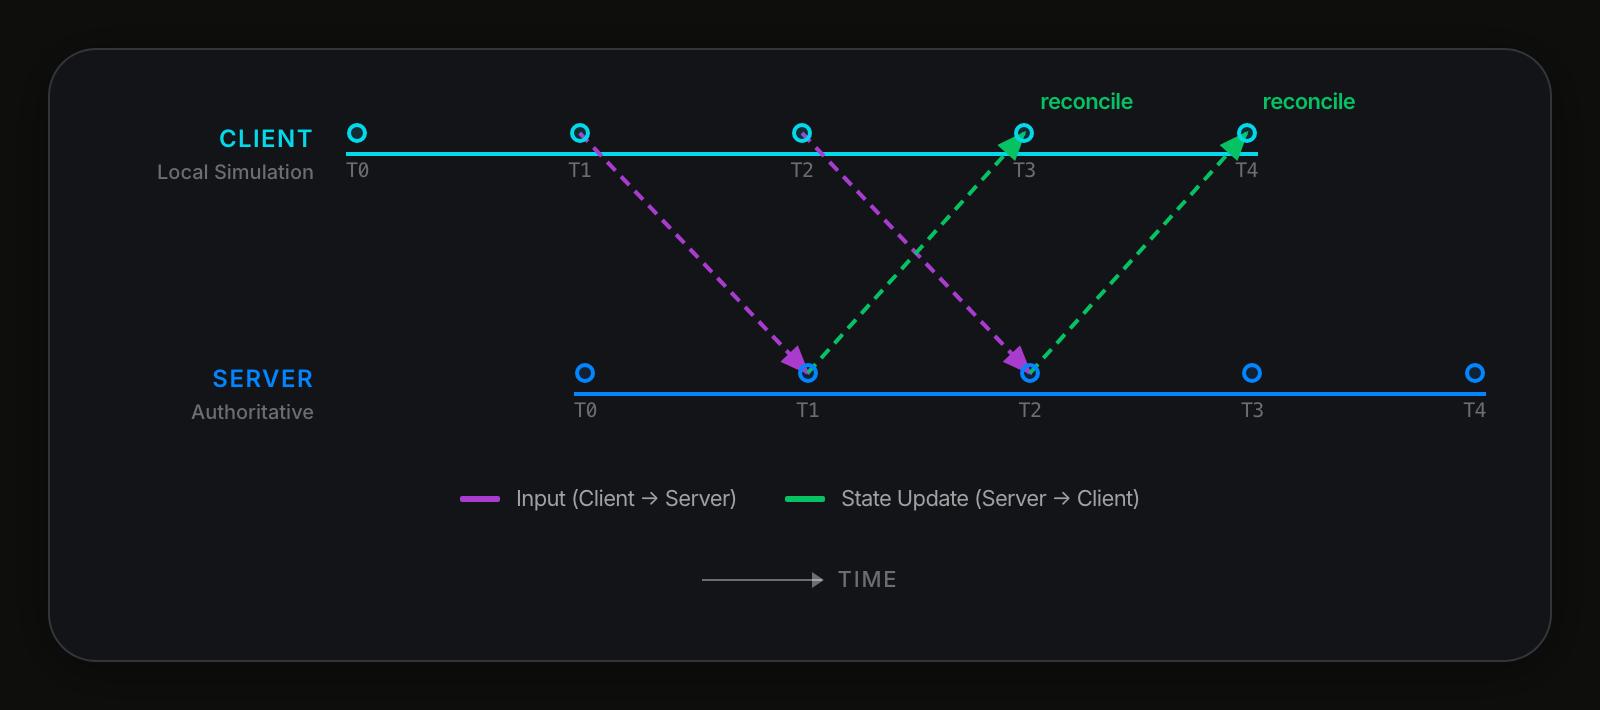
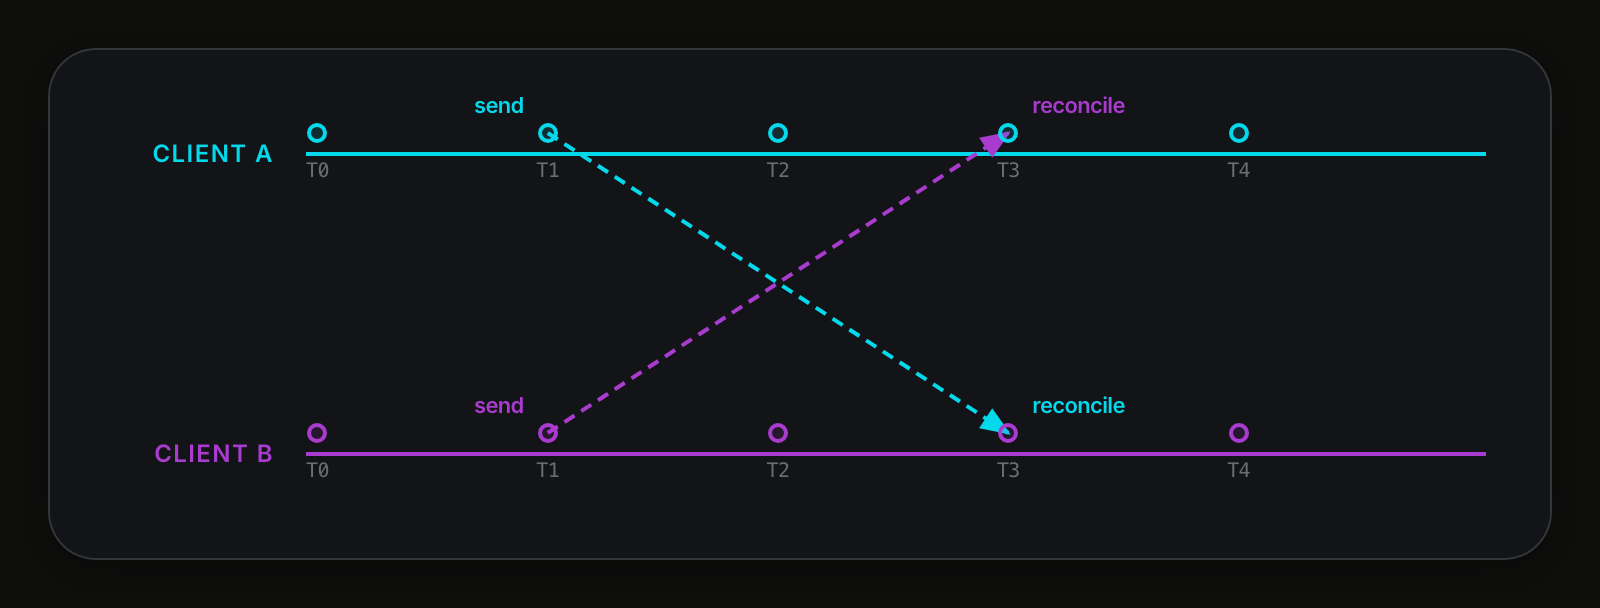
rebuild: games slide is two symmetric peers, no legends

diff --git a/diagrams/pages/game-timelines.html b/diagrams/pages/game-timelines.html
@@ -24,7 +24,7 @@
       position: relative;
       display: flex;
       flex-direction: column;
-      gap: 80px;
+      gap: 110px;
     }
 
     .timeline-row {
@@ -38,19 +38,10 @@
       font-weight: var(--font-weight-semibold);
       text-transform: uppercase;
       letter-spacing: 0.06em;
-      width: 100px;
+      width: 80px;
       flex-shrink: 0;
       text-align: right;
       line-height: 1.3;
-    }
-    .timeline-label .sublabel {
-      display: block;
-      font-size: 10px;
-      font-weight: var(--font-weight-medium);
-      color: var(--text-muted);
-      text-transform: none;
-      letter-spacing: 0;
-      margin-top: 2px;
     }
 
     .timeline-track {
@@ -61,7 +52,7 @@
       height: 40px;
     }
 
-    /* The horizontal line */
+    /* The horizontal line — both peers run the full width */
     .timeline-line {
       position: absolute;
       top: 50%;
@@ -70,21 +61,16 @@
       height: 2px;
       transform: translateY(-50%);
     }
-    .timeline-line.client { background: var(--accent-cyan); right: 20%; }
-    .timeline-line.server { background: var(--accent-blue); left: 20%; }
+    .timeline-line.peer-a { background: var(--accent-cyan); }
+    .timeline-line.peer-b { background: var(--accent-purple); }
 
-    /* Tick marks */
+    /* Tick marks — the right-hand fifth is left clear for the arrow labels */
     .ticks {
       display: flex;
       justify-content: space-between;
       width: 80%;
       position: relative;
       z-index: 1;
-    }
-
-    /* Server ticks shifted right by 1 tick spacing */
-    #server-track .ticks {
-      margin-left: 20%;
     }
 
     .tick {
@@ -100,8 +86,8 @@
       border-radius: 50%;
       border: 2px solid;
     }
-    .tick-dot.accent-cyan  { border-color: var(--accent-cyan);  background: var(--accent-cyan-bg); }
-    .tick-dot.accent-blue  { border-color: var(--accent-blue);  background: var(--accent-blue-bg); }
+    .tick-dot.accent-cyan   { border-color: var(--accent-cyan);   background: var(--accent-cyan-bg); }
+    .tick-dot.accent-purple { border-color: var(--accent-purple); background: var(--accent-purple-bg); }
 
     .tick-label {
       font-size: 10px;
@@ -120,58 +106,6 @@
       overflow: visible;
       pointer-events: none;
     }
-
-    /* Time axis */
-    .time-axis {
-      display: flex;
-      align-items: center;
-      justify-content: center;
-      gap: var(--space-sm);
-      margin-top: var(--space-lg);
-      color: var(--text-muted);
-      font-size: 11px;
-      font-weight: var(--font-weight-medium);
-      text-transform: uppercase;
-      letter-spacing: 0.08em;
-    }
-    .time-axis-line {
-      width: 60px;
-      height: 1px;
-      background: var(--text-muted);
-      position: relative;
-    }
-    .time-axis-line::after {
-      content: '';
-      position: absolute;
-      right: -1px;
-      top: 50%;
-      transform: translateY(-50%);
-      border-top: 4px solid transparent;
-      border-bottom: 4px solid transparent;
-      border-left: 6px solid var(--text-muted);
-    }
-
-    /* Legend */
-    .diagram-legend {
-      display: flex;
-      gap: var(--space-lg);
-      margin-top: var(--space-lg);
-      justify-content: center;
-    }
-    .legend-entry {
-      display: flex;
-      align-items: center;
-      gap: var(--space-sm);
-      font-size: 11px;
-      color: var(--text-secondary);
-    }
-    .legend-swatch {
-      width: 20px;
-      height: 3px;
-      border-radius: 1px;
-    }
-    .legend-swatch.purple { background: var(--accent-purple); }
-    .legend-swatch.green  { background: var(--accent-green); }
   </style>
 </head>
 <body>
@@ -180,15 +114,12 @@
       <div class="card-body">
         <div class="timelines" id="timelines">
 
-          <!-- Client timeline (T0–T4) -->
-          <div class="timeline-row" id="client-row">
-            <div class="timeline-label" style="color: var(--accent-cyan);">
-              Client
-              <span class="sublabel">Local Simulation</span>
-            </div>
-            <div class="timeline-track" id="client-track">
-              <div class="timeline-line client"></div>
-              <div class="ticks" id="client-ticks">
+          <!-- Client A -->
+          <div class="timeline-row">
+            <div class="timeline-label" style="color: var(--accent-cyan);">Client A</div>
+            <div class="timeline-track">
+              <div class="timeline-line peer-a"></div>
+              <div class="ticks" id="a-ticks">
                 <div class="tick"><div class="tick-dot accent-cyan"></div><span class="tick-label">T0</span></div>
                 <div class="tick"><div class="tick-dot accent-cyan"></div><span class="tick-label">T1</span></div>
                 <div class="tick"><div class="tick-dot accent-cyan"></div><span class="tick-label">T2</span></div>
@@ -198,20 +129,17 @@
             </div>
           </div>
 
-          <!-- Server timeline (T0–T4, offset right to show lag) -->
-          <div class="timeline-row" id="server-row">
-            <div class="timeline-label" style="color: var(--accent-blue);">
-              Server
-              <span class="sublabel">Authoritative</span>
-            </div>
-            <div class="timeline-track" id="server-track">
-              <div class="timeline-line server"></div>
-              <div class="ticks" id="server-ticks">
-                <div class="tick"><div class="tick-dot accent-blue"></div><span class="tick-label">T0</span></div>
-                <div class="tick"><div class="tick-dot accent-blue"></div><span class="tick-label">T1</span></div>
-                <div class="tick"><div class="tick-dot accent-blue"></div><span class="tick-label">T2</span></div>
-                <div class="tick"><div class="tick-dot accent-blue"></div><span class="tick-label">T3</span></div>
-                <div class="tick"><div class="tick-dot accent-blue"></div><span class="tick-label">T4</span></div>
+          <!-- Client B — the same thing, the other way round -->
+          <div class="timeline-row">
+            <div class="timeline-label" style="color: var(--accent-purple);">Client B</div>
+            <div class="timeline-track">
+              <div class="timeline-line peer-b"></div>
+              <div class="ticks" id="b-ticks">
+                <div class="tick"><div class="tick-dot accent-purple"></div><span class="tick-label">T0</span></div>
+                <div class="tick"><div class="tick-dot accent-purple"></div><span class="tick-label">T1</span></div>
+                <div class="tick"><div class="tick-dot accent-purple"></div><span class="tick-label">T2</span></div>
+                <div class="tick"><div class="tick-dot accent-purple"></div><span class="tick-label">T3</span></div>
+                <div class="tick"><div class="tick-dot accent-purple"></div><span class="tick-label">T4</span></div>
               </div>
             </div>
           </div>
@@ -219,76 +147,43 @@
           <!-- SVG arrows drawn by script -->
           <svg class="arrow-overlay" id="arrow-svg"></svg>
         </div>
-
-        <!-- Legend -->
-        <div class="diagram-legend">
-          <div class="legend-entry">
-            <div class="legend-swatch purple"></div>
-            Input (Client → Server)
-          </div>
-          <div class="legend-entry">
-            <div class="legend-swatch green"></div>
-            State Update (Server → Client)
-          </div>
-        </div>
-
-        <div class="time-axis">
-          <div class="time-axis-line"></div>
-          Time
-        </div>
       </div>
     </div>
   </div>
 
   <script>
-    // Draw diagonal arrows between client and server ticks
+    // Each peer sends at T1 and reconciles what it receives at T3 — the same three
+    // steps, mirrored, so the two arrows cross.
+    const CYAN = '#04d9eb';
+    const PURPLE = '#a93cce';
+
     function drawArrows() {
+      const ns = 'http://www.w3.org/2000/svg';
       const svg = document.getElementById('arrow-svg');
       const container = document.getElementById('timelines');
       const containerRect = container.getBoundingClientRect();
 
-      const clientDots = document.querySelectorAll('#client-ticks .tick-dot');
-      const serverDots = document.querySelectorAll('#server-ticks .tick-dot');
+      const aDots = document.querySelectorAll('#a-ticks .tick-dot');
+      const bDots = document.querySelectorAll('#b-ticks .tick-dot');
 
-      // Clear previous
       svg.innerHTML = '';
 
-      // SVG namespace
-      const ns = 'http://www.w3.org/2000/svg';
-
-      // Arrow marker definitions
       const defs = document.createElementNS(ns, 'defs');
-
-      // Purple arrowhead (client → server / input)
-      const markerPurple = document.createElementNS(ns, 'marker');
-      markerPurple.setAttribute('id', 'arrow-purple');
-      markerPurple.setAttribute('viewBox', '0 0 10 8');
-      markerPurple.setAttribute('refX', '9');
-      markerPurple.setAttribute('refY', '4');
-      markerPurple.setAttribute('markerWidth', '8');
-      markerPurple.setAttribute('markerHeight', '6');
-      markerPurple.setAttribute('orient', 'auto');
-      const pathP = document.createElementNS(ns, 'path');
-      pathP.setAttribute('d', 'M0,0 L10,4 L0,8 Z');
-      pathP.setAttribute('fill', '#a93cce');
-      markerPurple.appendChild(pathP);
-      defs.appendChild(markerPurple);
-
-      // Green arrowhead (server → client / state update)
-      const markerGreen = document.createElementNS(ns, 'marker');
-      markerGreen.setAttribute('id', 'arrow-green');
-      markerGreen.setAttribute('viewBox', '0 0 10 8');
-      markerGreen.setAttribute('refX', '9');
-      markerGreen.setAttribute('refY', '4');
-      markerGreen.setAttribute('markerWidth', '8');
-      markerGreen.setAttribute('markerHeight', '6');
-      markerGreen.setAttribute('orient', 'auto');
-      const pathG = document.createElementNS(ns, 'path');
-      pathG.setAttribute('d', 'M0,0 L10,4 L0,8 Z');
-      pathG.setAttribute('fill', '#07c262');
-      markerGreen.appendChild(pathG);
-      defs.appendChild(markerGreen);
-
+      [['arrow-cyan', CYAN], ['arrow-purple', PURPLE]].forEach(([id, fill]) => {
+        const marker = document.createElementNS(ns, 'marker');
+        marker.setAttribute('id', id);
+        marker.setAttribute('viewBox', '0 0 10 8');
+        marker.setAttribute('refX', '9');
+        marker.setAttribute('refY', '4');
+        marker.setAttribute('markerWidth', '8');
+        marker.setAttribute('markerHeight', '6');
+        marker.setAttribute('orient', 'auto');
+        const path = document.createElementNS(ns, 'path');
+        path.setAttribute('d', 'M0,0 L10,4 L0,8 Z');
+        path.setAttribute('fill', fill);
+        marker.appendChild(path);
+        defs.appendChild(marker);
+      });
       svg.appendChild(defs);
 
       function dotCenter(dot) {
@@ -299,7 +194,21 @@
         };
       }
 
-      function makeLine(from, to, color, markerId, label) {
+      function label(text, x, y, color, anchor) {
+        const el = document.createElementNS(ns, 'text');
+        el.setAttribute('x', x);
+        el.setAttribute('y', y);
+        el.setAttribute('fill', color);
+        el.setAttribute('font-size', '11');
+        el.setAttribute('font-weight', '600');
+        el.setAttribute('font-family', 'Inter, system-ui, sans-serif');
+        el.setAttribute('text-anchor', anchor);
+        el.textContent = text;
+        svg.appendChild(el);
+      }
+
+      // from/to are dot centres; labels sit above each line, clear of the T-labels below it
+      function hop(from, to, color, markerId) {
         const line = document.createElementNS(ns, 'line');
         line.setAttribute('x1', from.x);
         line.setAttribute('y1', from.y);
@@ -311,46 +220,16 @@
         line.setAttribute('stroke-dasharray', '6,4');
         svg.appendChild(line);
 
-        if (label) {
-          const text = document.createElementNS(ns, 'text');
-          text.setAttribute('x', to.x + 8);
-          text.setAttribute('y', to.y - 12);
-          text.setAttribute('fill', color);
-          text.setAttribute('font-size', '11');
-          text.setAttribute('font-weight', '600');
-          text.setAttribute('font-family', 'Inter, system-ui, sans-serif');
-          text.textContent = label;
-          svg.appendChild(text);
-        }
+        label('send', from.x - 12, from.y - 10, color, 'end');
+        label('reconcile', to.x + 12, to.y - 10, color, 'start');
       }
 
-      // Input arrows: client tick → same-labeled server tick
-      // Because server is offset right, same index arrows go diagonally down-right
-      // Client T1 → Server T1, Client T2 → Server T2
-      const inputPairs = [
-        [1, 1],
-        [2, 2],
-      ];
-      inputPairs.forEach(([ci, si]) => {
-        if (clientDots[ci] && serverDots[si]) {
-          makeLine(dotCenter(clientDots[ci]), dotCenter(serverDots[si]), '#a93cce', 'arrow-purple');
-        }
-      });
-
-      // State update arrows: server tick → client tick (+ 2 ticks for return latency)
-      // Server T1 → Client T3, Server T2 → Client T4
-      const updatePairs = [
-        [1, 3],
-        [2, 4],
-      ];
-      updatePairs.forEach(([si, ci]) => {
-        if (serverDots[si] && clientDots[ci]) {
-          makeLine(dotCenter(serverDots[si]), dotCenter(clientDots[ci]), '#07c262', 'arrow-green', 'reconcile');
-        }
-      });
+      // A sends at T1, B reconciles at T3
+      hop(dotCenter(aDots[1]), dotCenter(bDots[3]), CYAN, 'arrow-cyan');
+      // B sends at T1, A reconciles at T3
+      hop(dotCenter(bDots[1]), dotCenter(aDots[3]), PURPLE, 'arrow-purple');
     }
 
-    // Draw on load and resize
     window.addEventListener('load', drawArrows);
     window.addEventListener('resize', drawArrows);
   </script>
